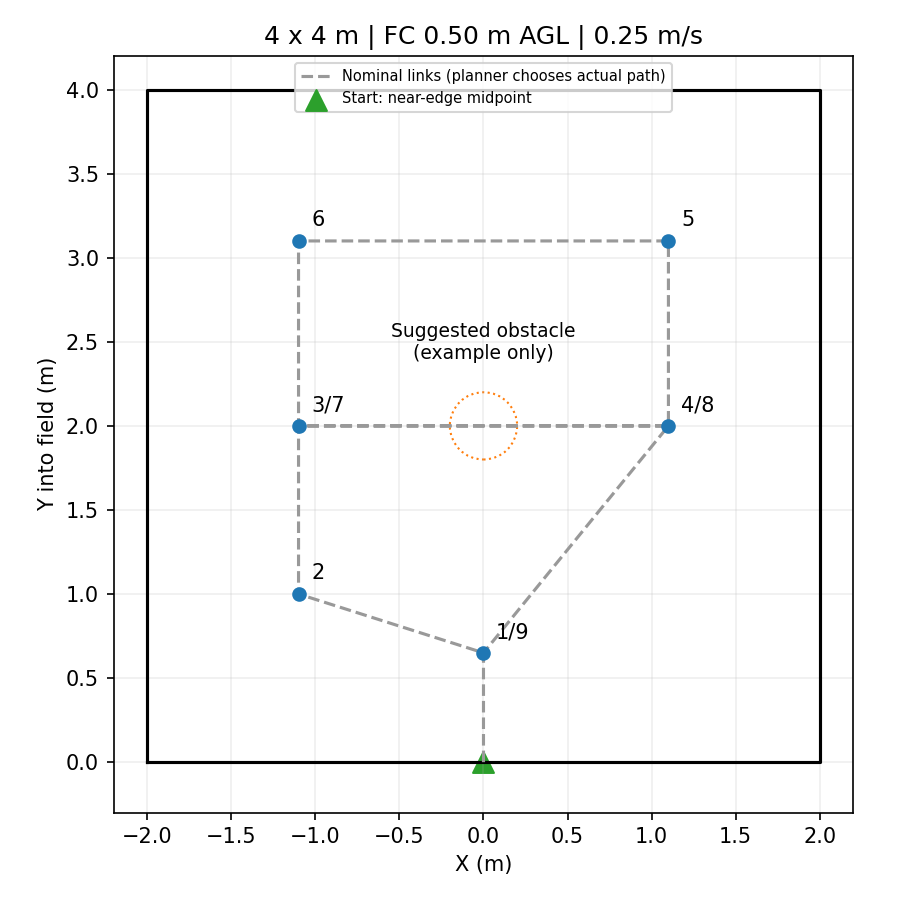
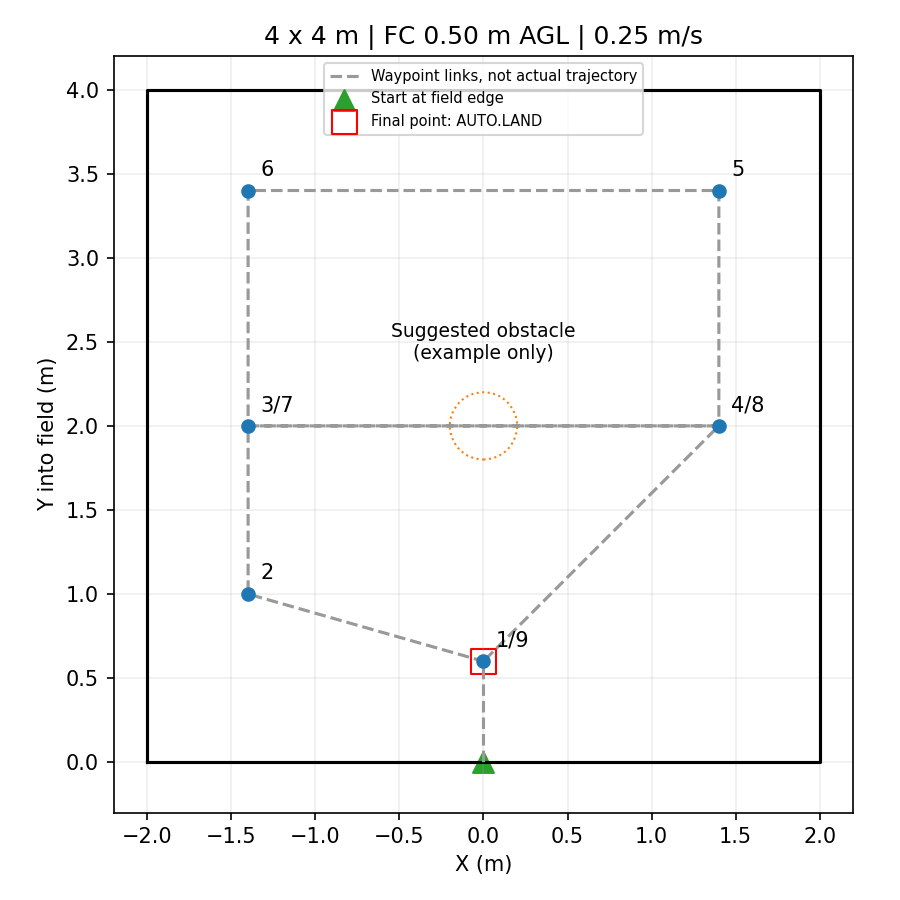
feat: 扩大避障测试航线并接入末点自动降落

diff --git a/patrol_uav_ws-patrol_planner/src/uav_mission/scripts/obstacle_test_auto_land.py b/patrol_uav_ws-patrol_planner/src/uav_mission/scripts/obstacle_test_auto_land.py
@@ -1,0 +1,116 @@
+#!/usr/bin/env python3
+"""Test-only final-waypoint handoff to PX4 AUTO.LAND; never arms/disarms."""
+import json
+import math
+import threading
+import rospy
+from mavros_msgs.msg import State
+from mavros_msgs.srv import SetMode
+from nav_msgs.msg import Odometry
+from std_msgs.msg import String
+
+
+def route_finished(status, revision):
+    return (status.get('start_mode') == 'post_delivery'
+            and bool(status.get('mission_id'))
+            and status.get('phase') == 'LAND'
+            and status.get('active_command') == 'LAND'
+            and status.get('post_delivery_route_revision') == revision
+            and status.get('post_delivery_route_complete') is True
+            and status.get('mission_failed') is False)
+
+
+def settled(odom, frame, xy, z, xy_tolerance, z_tolerance, max_speed):
+    p, v = odom.pose.pose.position, odom.twist.twist.linear
+    values = (p.x, p.y, p.z, v.x, v.y, v.z)
+    return (odom.header.frame_id == frame
+            and all(math.isfinite(x) for x in values)
+            and math.hypot(p.x-xy[0], p.y-xy[1]) <= xy_tolerance
+            and abs(p.z-z) <= z_tolerance
+            and math.sqrt(v.x*v.x+v.y*v.y+v.z*v.z) <= max_speed)
+
+
+class AutoLand:
+    def __init__(self):
+        self.frame = rospy.get_param('~frame', 'camera_init')
+        self.xy = rospy.get_param('~landing_xy')
+        self.z = float(rospy.get_param('~cruise_z'))
+        self.revision = rospy.get_param('~route_revision')
+        self.dwell = float(rospy.get_param('~settle_seconds', 1.0))
+        self.xy_tol = float(rospy.get_param('~xy_tolerance', .18))
+        self.z_tol = float(rospy.get_param('~z_tolerance', .15))
+        self.speed = float(rospy.get_param('~max_speed', .12))
+        if (not self.frame or not self.revision or len(self.xy) != 2
+                or not all(math.isfinite(float(v)) for v in
+                           list(self.xy)+[self.z, self.dwell, self.xy_tol, self.z_tol, self.speed])
+                or min(self.dwell, self.xy_tol, self.z_tol, self.speed) <= 0):
+            raise ValueError('invalid test landing parameters')
+        self.lock = threading.RLock()
+        self.status, self.state, self.odom = {}, None, None
+        self.status_at = self.state_at = 0.0
+        self.since = None
+        self.attempts, self.last_attempt = 0, 0.0
+        self.handed_over = False
+        self.mode = rospy.ServiceProxy(rospy.get_param('~set_mode_service', '/mavros/set_mode'), SetMode)
+        self.subs = [
+            rospy.Subscriber(rospy.get_param('~status_topic', '/navigation/mission_status'), String, self.on_status, queue_size=1),
+            rospy.Subscriber(rospy.get_param('~state_topic', '/mavros/state'), State, self.on_state, queue_size=1),
+            rospy.Subscriber(rospy.get_param('~odom_topic', '/navigation/local_odom'), Odometry, self.on_odom, queue_size=1),
+        ]
+        self.timer = rospy.Timer(rospy.Duration(.1), self.tick)
+
+    def on_status(self, msg):
+        with self.lock:
+            try:
+                value = json.loads(msg.data)
+                self.status = value if isinstance(value, dict) else {}
+            except ValueError:
+                self.status = {}
+            self.status_at = rospy.Time.now().to_sec()
+
+    def on_state(self, msg):
+        with self.lock:
+            self.state = msg
+            self.state_at = rospy.Time.now().to_sec()
+
+    def on_odom(self, msg):
+        with self.lock:
+            self.odom = msg
+
+    def tick(self, _event):
+        with self.lock:
+            now = rospy.Time.now().to_sec()
+            if self.handed_over or self.attempts >= 3:
+                return
+            # Only request from OFFBOARD; never counter a pilot's mode takeover.
+            valid = (route_finished(self.status, self.revision)
+                     and 0 <= now-self.status_at <= 15.0
+                     and self.state is not None and self.state.connected
+                     and self.state.armed and self.state.mode == 'OFFBOARD'
+                     and 0 <= now-self.state_at <= 2.0
+                     and self.odom is not None
+                     and -.05 <= now-self.odom.header.stamp.to_sec() <= .5
+                     and settled(self.odom, self.frame, self.xy, self.z,
+                                 self.xy_tol, self.z_tol, self.speed))
+            if not valid:
+                self.since = None
+                return
+            if self.since is None:
+                self.since = now
+            if now-self.since < self.dwell or now-self.last_attempt < 2.0:
+                return
+            self.attempts += 1
+            self.last_attempt = now
+            try:
+                response = self.mode(base_mode=0, custom_mode='AUTO.LAND')
+                self.handed_over = bool(response.mode_sent)
+                rospy.logwarn('Obstacle test AUTO.LAND request %d accepted=%s; check MAVROS mode/landed state',
+                              self.attempts, self.handed_over)
+            except rospy.ServiceException as error:
+                rospy.logerr('Obstacle test AUTO.LAND request failed: %s', error)
+
+
+if __name__ == '__main__':
+    rospy.init_node('obstacle_test_auto_land')
+    AutoLand()
+    rospy.spin()

diff --git a/patrol_uav_ws-patrol_planner/src/uav_mission/test/test_obstacle_test_auto_land.py b/patrol_uav_ws-patrol_planner/src/uav_mission/test/test_obstacle_test_auto_land.py
@@ -1,0 +1,77 @@
+import importlib.util
+from pathlib import Path
+import threading
+import unittest
+from unittest.mock import Mock, patch
+import rospy
+from nav_msgs.msg import Odometry
+from mavros_msgs.msg import State
+
+spec = importlib.util.spec_from_file_location('land', str(
+    Path(__file__).resolve().parents[1]/'scripts/obstacle_test_auto_land.py'))
+land = importlib.util.module_from_spec(spec)
+spec.loader.exec_module(land)
+
+
+class LandTests(unittest.TestCase):
+    def setUp(self):
+        n = self.n = land.AutoLand.__new__(land.AutoLand)
+        n.lock = threading.RLock()
+        n.frame, n.xy, n.z, n.revision = 'camera_init', [0, .6], .28, 'test-r2'
+        n.dwell, n.xy_tol, n.z_tol, n.speed = 1., .18, .15, .12
+        n.status = dict(start_mode='post_delivery', mission_id='one', phase='LAND',
+                        active_command='LAND', post_delivery_route_revision='test-r2',
+                        post_delivery_route_complete=True, mission_failed=False)
+        n.status_at = n.state_at = 10.
+        n.state = State(connected=True, armed=True, mode='OFFBOARD')
+        n.odom = Odometry()
+        n.odom.header.frame_id = 'camera_init'
+        n.odom.pose.pose.position.y = .6
+        n.odom.pose.pose.position.z = .28
+        n.since, n.attempts, n.last_attempt, n.handed_over = None, 0, 0., False
+        n.mode = Mock(return_value=Mock(mode_sent=True))
+
+    def tick(self, t):
+        self.n.odom.header.stamp = rospy.Time.from_sec(t)
+        self.n.state_at = self.n.odom.header.stamp.to_sec()
+        with patch.object(rospy.Time, 'now', return_value=rospy.Time.from_sec(t)), \
+                patch.object(rospy, 'logwarn'):
+            self.n.tick(None)
+
+    def test_requests_once_after_dwell(self):
+        self.tick(10); self.tick(10.5)
+        self.n.mode.assert_not_called()
+        self.tick(11.1); self.tick(11.2)
+        self.n.mode.assert_called_once_with(base_mode=0, custom_mode='AUTO.LAND')
+
+    def test_no_early_landing_or_failed_route(self):
+        for key, value in [('phase', 'POST_DELIVERY'), ('post_delivery_route_complete', False),
+                           ('mission_failed', True), ('post_delivery_route_revision', 'other')]:
+            original = self.n.status[key]; self.n.status[key] = value
+            self.tick(10); self.tick(11.1)
+            self.n.mode.assert_not_called(); self.n.status[key] = original
+
+    def test_manual_mode_or_disarmed(self):
+        self.n.state.mode = 'STABILIZED'; self.tick(10); self.tick(11.1)
+        self.n.state.mode = 'OFFBOARD'; self.n.state.armed = False
+        self.tick(12); self.tick(13.1); self.n.mode.assert_not_called()
+
+    def test_position_speed_and_frame(self):
+        self.n.odom.pose.pose.position.x = .5; self.tick(10); self.tick(11.1)
+        self.n.odom.pose.pose.position.x = 0
+        self.n.odom.twist.twist.linear.x = .3; self.tick(12); self.tick(13.1)
+        self.n.odom.twist.twist.linear.x = 0
+        self.n.odom.header.frame_id = 'map'; self.tick(14); self.tick(15.1)
+        self.n.mode.assert_not_called()
+
+    def test_expired_trigger(self):
+        self.tick(26); self.tick(27.1); self.n.mode.assert_not_called()
+
+    def test_rejected_mode_has_bounded_retries(self):
+        self.n.mode.return_value.mode_sent = False
+        for t in [10, 11.1, 13.2, 15.3, 17.4]: self.tick(t)
+        self.assertEqual(self.n.mode.call_count, 3)
+
+
+if __name__ == '__main__':
+    unittest.main()
